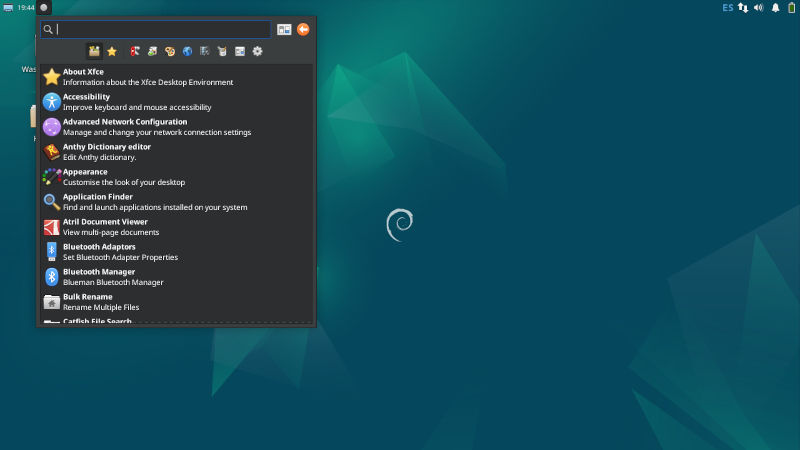
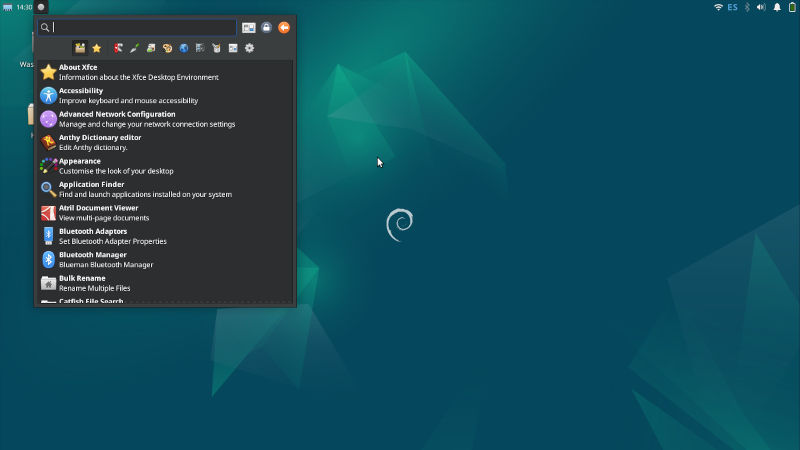
Updated documentation site for this project.

Changed region(s): [[0.0, 0.0, 0.4062, 0.7467], [0.875, 0.0, 1.0, 0.0311], [0.4688, 0.3422, 0.5, 0.3733]]

diff --git a/docs/index.html b/docs/index.html
@@ -43,16 +43,14 @@ Log</a> /</span> <span><a href="https://github.com/marcbperez/debian-daily-drive
       <details>
         <summary>Page contents</summary>
         <nav role="doc-toc"><ul>
-<li><a href="#debian-daily-driver"
-id="toc-debian-daily-driver">debian-daily-driver</a>
+<li><a href="#debian-daily-driver">debian-daily-driver</a>
 <ul>
-<li><a href="#installation" id="toc-installation">Installation</a></li>
-<li><a href="#usage" id="toc-usage">Usage</a></li>
-<li><a href="#troubleshooting"
-id="toc-troubleshooting">Troubleshooting</a></li>
-<li><a href="#contributing" id="toc-contributing">Contributing</a></li>
-<li><a href="#credits" id="toc-credits">Credits</a></li>
-<li><a href="#license" id="toc-license">License</a></li>
+<li><a href="#installation">Installation</a></li>
+<li><a href="#usage">Usage</a></li>
+<li><a href="#troubleshooting">Troubleshooting</a></li>
+<li><a href="#contributing">Contributing</a></li>
+<li><a href="#credits">Credits</a></li>
+<li><a href="#license">License</a></li>
 </ul></li>
 </ul></nav>
       </details>
@@ -81,26 +79,57 @@ else.</p>
 <p>Log in to the desktop if you have not done it already.</p>
 <p><a href="assets/login.jpg"><img src="assets/login.jpg"
 title="Login (full width centered)" /></a></p>
-<p>Open the menu with <code>Super + Space</code>, anything you type will
-filter the application list. There are buttons to access the Settings
-Manager and to log out.</p>
+<p>Open the menu with <code>Super + Return</code>, anything you type
+will filter the application list. There are buttons to access the
+Settings Manager, to lock the session and to log out.</p>
 <p><a href="assets/menu.jpg"><img src="assets/menu.jpg"
 title="Menu (full width centered)" /></a></p>
-<p>The Application Finder is assigned to <code>Alt + F3</code>, it will
-also filter the application list as you type.</p>
+<p>The Application Finder is assigned to <code>Super + Space</code>, it
+will also filter the application list as you type.</p>
 <p><a href="assets/appfinder.jpg"><img src="assets/appfinder.jpg"
 title="App Finder (full width centered)" /></a></p>
 <p>And there is a collapsed version assigned to
-<code>Alt + F2</code>.</p>
+<code>Super + Alt</code>.</p>
 <p><a href="assets/appfinder-collapsed.jpg"><img
 src="assets/appfinder-collapsed.jpg"
 title="Collapsed App Finder(full width centered)" /></a></p>
 <p>Other useful shortcuts are:</p>
 <ul>
-<li><code>Super + L</code> locks the session.</li>
 <li><code>Super + T</code> opens a terminal.</li>
-<li><code>Super + F</code> opens the file explorer.</li>
+<li><code>Super + E</code> opens the file explorer.</li>
 <li><code>Super + W</code> opens the web browser.</li>
+<li><code>Super + F</code> opens a file search.</li>
+<li><code>Super + D</code> toggles the desktop.</li>
+<li><code>Super + P</code> opens the display settings.</li>
+<li><code>Super + S</code> opens the settings manager.</li>
+<li><code>Super + K</code> kills the next clicked window.</li>
+<li><code>Super + L</code> locks the session.</li>
+<li><code>Super + Esc</code> opens the Log Out menu.</li>
+<li><code>Super + Up</code> tiles a window to the top.</li>
+<li><code>Super + Down</code> tiles a window to the bottom.</li>
+<li><code>Super + Left</code> tiles a window to the left.</li>
+<li><code>Super + Right</code> tiles a window to the right.</li>
+<li><code>Super + 1</code> tiles a window to the top-left.</li>
+<li><code>Super + 2</code> tiles a window to the top-right.</li>
+<li><code>Super + 3</code> tiles a window to the bottom-left.</li>
+<li><code>Super + 4</code> tiles a window to the bottom-right.</li>
+<li><code>Super + 9</code> maximises a window.</li>
+<li><code>Super + 0</code> hides a window.</li>
+<li><code>Super + BackSpace</code> closes a window.</li>
+<li><code>Super + Ctrl + Left</code> moves a window to the previous
+workspace.</li>
+<li><code>Super + Ctrl + Right</code> moves a window to the next
+workspace.</li>
+<li><code>Super + Ctrl + 1</code> to <code>9</code> moves a window to
+the workspace number.</li>
+<li><code>Ctrl + Alt + Left</code> switches to the previous
+workspace.</li>
+<li><code>Ctrl + Alt + Right</code> switches to the next workspace.</li>
+<li><code>Ctrl + Alt + 1</code> to <code>9</code> switches to the
+workspace number.</li>
+<li><code>Ctrl + Alt + A</code> adds a workspace.</li>
+<li><code>Ctrl + Alt + D</code> deletes the last workspace.</li>
+<li><code>Alt + Tab</code> cycles between windows.</li>
 </ul>
 <p>Most of the settings, including these shortcuts, can be configured
 through the applications in the “Settings” and the “System” categories

diff --git a/docs/CHANGELOG.html b/docs/CHANGELOG.html
@@ -43,20 +43,23 @@ Log</a> /</span> <span><a href="https://github.com/marcbperez/debian-daily-drive
       <details>
         <summary>Page contents</summary>
         <nav role="doc-toc"><ul>
-<li><a href="#change-log" id="toc-change-log">Change Log</a>
+<li><a href="#change-log">Change Log</a>
 <ul>
-<li><a href="#unreleased" id="toc-unreleased">Unreleased</a></li>
-<li><a href="#section" id="toc-section">0.2.1 - 2023-12-8</a>
+<li><a href="#unreleased">Unreleased</a>
 <ul>
-<li><a href="#fixed" id="toc-fixed">Fixed</a></li>
+<li><a href="#added">Added</a></li>
 </ul></li>
-<li><a href="#section-1" id="toc-section-1">0.2.0 - 2023-12-8</a>
+<li><a href="#section">0.2.1 - 2023-12-8</a>
 <ul>
-<li><a href="#added" id="toc-added">Added</a></li>
+<li><a href="#fixed">Fixed</a></li>
 </ul></li>
-<li><a href="#section-2" id="toc-section-2">0.1.0 - 2023-12-7</a>
+<li><a href="#section-1">0.2.0 - 2023-12-8</a>
 <ul>
-<li><a href="#added-1" id="toc-added-1">Added</a></li>
+<li><a href="#added-1">Added</a></li>
+</ul></li>
+<li><a href="#section-2">0.1.0 - 2023-12-7</a>
+<ul>
+<li><a href="#added-2">Added</a></li>
 </ul></li>
 </ul></li>
 </ul></nav>
@@ -68,13 +71,20 @@ Log</a> /</span> <span><a href="https://github.com/marcbperez/debian-daily-drive
 This project adheres to <a href="http://semver.org">Semantic
 Versioning</a>.</p>
 <h2 id="unreleased">Unreleased</h2>
+<h3 id="added">Added</h3>
+<ul>
+<li>Confirmation before rebooting system.</li>
+<li>Folder for portable apps.</li>
+<li>Lock action in applications menu.</li>
+<li>Workspace and window tiling shortcuts.</li>
+</ul>
 <h2 id="section">0.2.1 - 2023-12-8</h2>
 <h3 id="fixed">Fixed</h3>
 <ul>
 <li>System reboot after installation.</li>
 </ul>
 <h2 id="section-1">0.2.0 - 2023-12-8</h2>
-<h3 id="added">Added</h3>
+<h3 id="added-1">Added</h3>
 <ul>
 <li>LightDM configuration.</li>
 <li>XFCE4 configuration.</li>
@@ -84,7 +94,7 @@ Versioning</a>.</p>
 <li>Deployment workflow.</li>
 </ul>
 <h2 id="section-2">0.1.0 - 2023-12-7</h2>
-<h3 id="added-1">Added</h3>
+<h3 id="added-2">Added</h3>
 <ul>
 <li>A README which covers project description and usage.</li>
 <li>This CHANGELOG file to document project changes and versions.</li>
